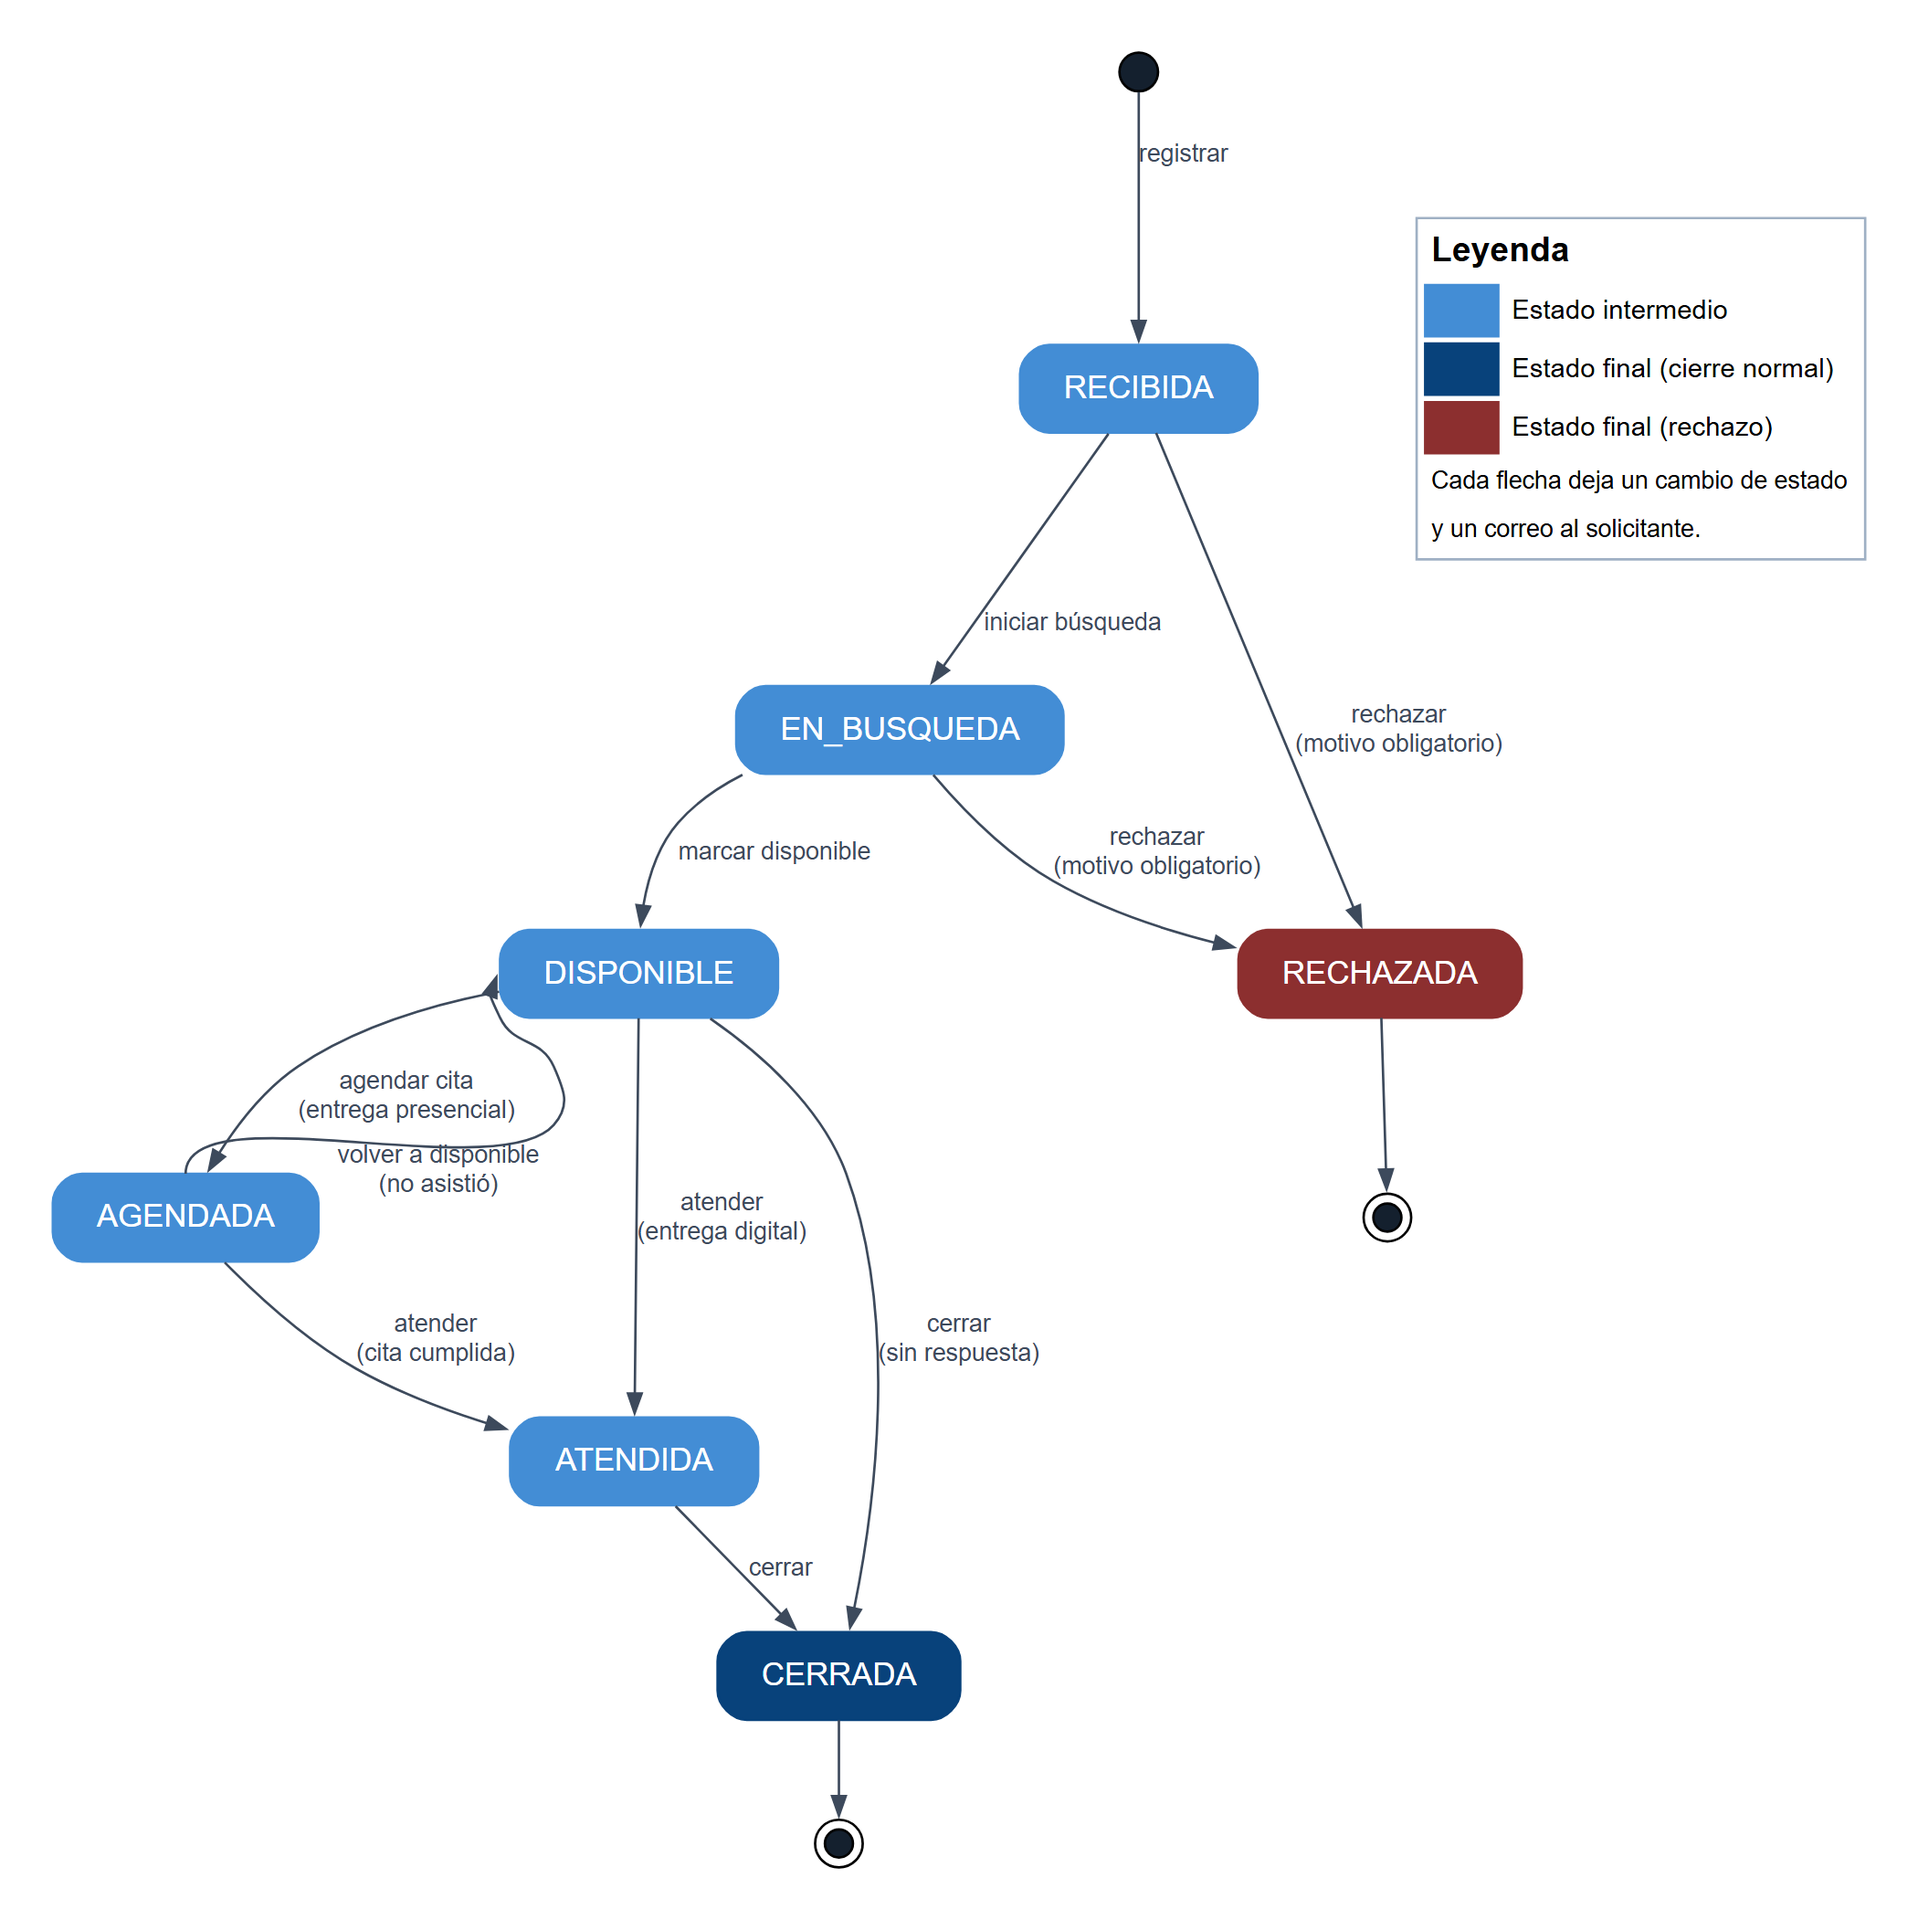
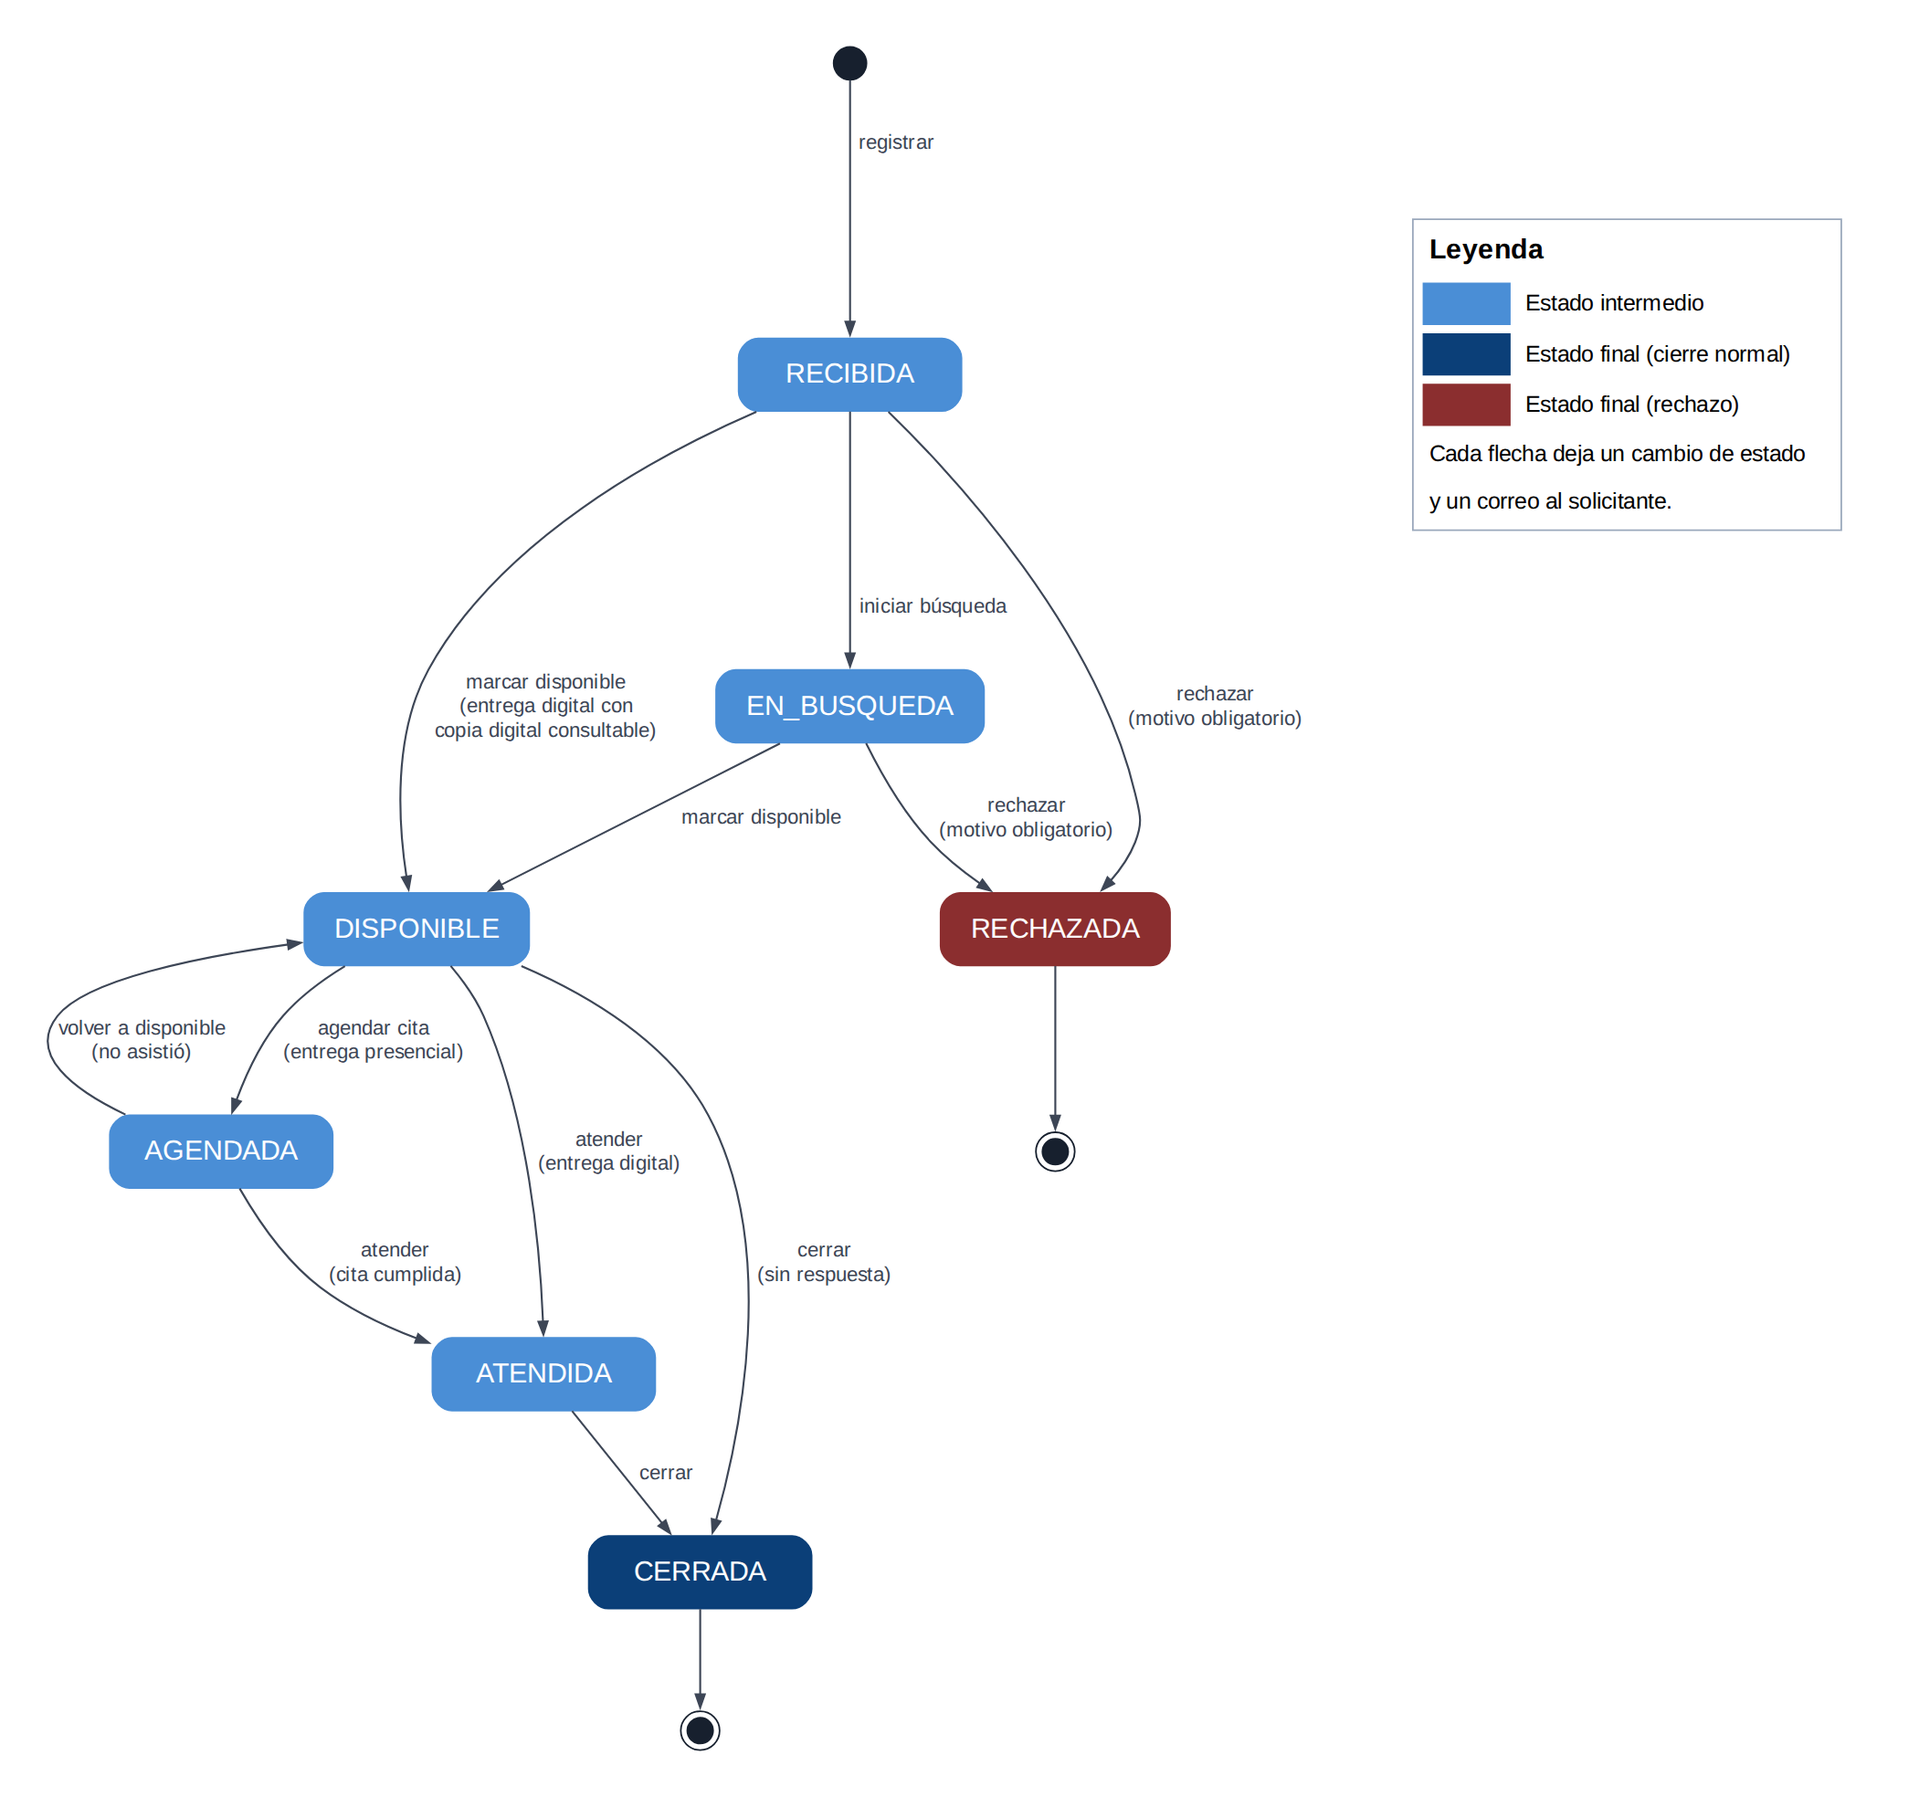
docs: documenta el paso directo a Disponible con copia digital (#139)
- modelo-dominio: la figura 2 agrega la flecha Recibida → Disponible, la tabla de transiciones explica su condición, RN-06 la incluye y queda el supuesto de que «no consultable» también restringe la copia.
- arquitectura: D-07 lista la nueva transición y describe su implementación.
- README del frontend: la tarjeta «Cambiar estado» con el paso directo y cómo correr la prueba con Docker.

diff --git a/docs/modelo-dominio.md b/docs/modelo-dominio.md
@@ -87,7 +87,8 @@ Leyenda: azul, estado intermedio; azul oscuro, cierre normal; rojo, rechazo; cí
 | Transición | Condición |
 |---|---|
 | → `RECIBIDA` | Se pidió al menos un material y la fecha deseada cumple su regla. El usuario público ya aceptó el aviso de privacidad al crear su cuenta. |
-| `RECIBIDA` → `EN_BUSQUEDA` | El personal empieza a buscar el material. |
+| `RECIBIDA` → `EN_BUSQUEDA` | El personal empieza a buscar el material. No se ofrece cuando procede el paso directo a `DISPONIBLE`. |
+| `RECIBIDA` → `DISPONIBLE` | Paso directo sin búsqueda (HU-139): la entrega es digital, todos los materiales tienen la copia digital que encontró la sincronización con *Everything*, ninguno está «no consultable» y no queda ninguna referencia escrita sin material (HU-09.2). Un material «en restauración» sí lo permite, porque la restauración afecta al original y no a la copia. Lo confirma el personal con un clic y queda en el historial con quien lo hizo. Entonces no se ofrece `EN_BUSQUEDA`. |
 | `RECIBIDA` / `EN_BUSQUEDA` → `RECHAZADA` | Motivo obligatorio, que el solicitante lee en «Mis solicitudes» y en el correo. |
 | `EN_BUSQUEDA` → `DISPONIBLE` | El personal localizó el material. |
 | `DISPONIBLE` → `AGENDADA` | La entrega es presencial. Solo se llega agendando la cita, no desde «Cambiar estado». |
@@ -96,7 +97,9 @@ Leyenda: azul, estado intermedio; azul oscuro, cierre normal; rojo, rechazo; cí
 | `AGENDADA` → `DISPONIBLE` | El solicitante no asistió: la cita pasa a `NO_ASISTIO` y el material queda libre ese día. Solo procede si la cita no tiene entregas de material registradas (HU-72). |
 | `DISPONIBLE` / `ATENDIDA` → `CERRADA` | Cierre manual por el personal. |
 
-Cualquier otra transición se rechaza con HTTP 409. `CERRADA` y `RECHAZADA` son estados finales. La regla vive en la entidad `Request` (`backend/src/requests/domain/entities/request.entity.ts`).
+Cualquier otra transición se rechaza con HTTP 409. `CERRADA` y `RECHAZADA` son estados finales. La regla vive en la entidad `Request` (`backend/src/requests/domain/entities/request.entity.ts`). Para el paso directo de HU-139, el repositorio le indica a la entidad si todos sus materiales tienen copia digital (`allMaterialsHaveDigitalCopy`) y si alguno está no consultable (`anyMaterialNotConsultable`), con la política `domain/policies/digital-copy.ts`; la condición está en `canTransitionTo`.
+
+> Supuesto de HU-139: «no consultable» es una restricción que también aplica a la copia digital. No se confirmó con el CLENA.
 
 ## 5. Reglas de negocio
 
@@ -112,7 +115,7 @@ Escritas como las diría el CLENA. «Vigente» significa que el sistema ya la ha
 | RN-04 | Una solicitud pide al menos un material del catálogo o una referencia escrita de uno que aún no está: un protocolo notarial por notaría, año y número de escritura, o cualquier otro material en texto libre. La regla vive en la entidad `Request`; sin materiales ni referencias se responde 400. | HU-09, HU-09.2 | Vigente |
 | RN-04.1 | Asociar el material del catálogo a una referencia escrita es opcional (normalmente el que trajo la sincronización tras digitalizarlo) y solo se hace mientras la solicitud está recibida o en búsqueda; queda en el historial con quién lo hizo y el material se suma a la solicitud. Una referencia sin material no bloquea nada: la solicitud pasa de en búsqueda a disponible, pero entonces el comentario es obligatorio y explica qué se entrega y cómo (400 `DELIVERY_COMMENT_REQUIRED` sin él). La cita se arma con los materiales de la solicitud, aunque sean cero. Rechazar sigue siendo decisión del personal. | HU-09.2 | Vigente |
 | RN-05 | El personal puede registrar una solicitud a nombre de quien llega en persona o escribe por correo; el solicitante debe tener un correo para recibir los avisos. | HU-10 | Vigente |
-| RN-06 | Una solicitud solo avanza por los pasos de la figura 2; no se puede saltar ni devolver a un paso anterior, salvo volver a disponible cuando el solicitante no asiste. | HU-14 | Vigente |
+| RN-06 | Una solicitud solo avanza por los pasos de la figura 2; no se puede saltar ni devolver a un paso anterior, salvo volver a disponible cuando el solicitante no asiste. La búsqueda solo se salta cuando la entrega es digital y todo el material ya tiene una copia digital consultable y ninguna referencia está pendiente: entonces la solicitud pasa de recibida a disponible y no a en búsqueda. | HU-14, HU-139 | Vigente |
 | RN-07 | Una solicitud rechazada siempre lleva el motivo, porque el solicitante lo lee. | HU-16 | Vigente |
 | RN-08 | Las solicitudes cerradas o rechazadas ya no cambian. | HU-14 | Vigente |
 | RN-09 | Cada cambio de estado queda en el historial con quién lo hizo, cuándo y su comentario, y ese historial no se puede borrar ni corregir. | HU-15 | Vigente |

diff --git a/frontend/README.md b/frontend/README.md
@@ -209,6 +209,13 @@ hora de Bogotá sin volver a cargar la solicitud. Un `409` (transición no
 permitida u otra persona la cambió primero) muestra el mensaje del backend y
 deja el estado como estaba.
 
+**Disponible directo (HU-139):** una solicitud **Recibida** con entrega digital
+cuyo material ya tiene copia digital consultable recibe del backend
+`allowedTransitions: ['DISPONIBLE', 'RECHAZADA']`, así que la tarjeta ofrece
+Disponible (con la pista «El material ya tiene copia digital…») y no En
+búsqueda. La pantalla no decide nada: solo muestra lo que manda la entidad.
+Cada material del detalle dice «Copia digital: Sí/No» (`hasDigitalCopy`).
+
 ### Gestión de usuarios del personal (HU-05)
 
 `/admin/usuarios` solo la abre `ADMIN`, y el menú muestra «Usuarios» solo a ese
@@ -337,6 +344,18 @@ Con `docker compose up -d --build` iniciado desde la raíz, ejecutar desde
 los 403, sin crear solicitudes. Guarda capturas de escritorio y móvil en
 `test-results/`. Usa las contraseñas `SEED_ADMIN_PASSWORD` y `SEED_DEMO_PASSWORD`
 del entorno de la prueba (por defecto local: `1`).
+
+### Disponible directo con copia digital (HU-139)
+
+Con `docker compose up -d --build` iniciado desde la raíz y la semilla
+(`RUN_SEED=true`), ejecutar desde `frontend`
+`pnpm test:e2e:docker direct-availability.spec.ts`. Con `personal1@example.com`
+crea tres solicitudes digitales ficticias para `publico1@example.com`: una con
+material con copia (uno en restauración), otra con material no consultable y
+otra con material sin copia. Comprueba en `localhost:8080` que solo la primera
+ofrece Disponible en vez de En búsqueda, la pasa a Disponible, revisa el
+historial y el correo en Mailpit (`localhost:8025`), y que la API responde 409
+a Disponible en las otras dos. Guarda capturas en `test-results/`.
 
 ### Calendario legible (HU-142)
 
